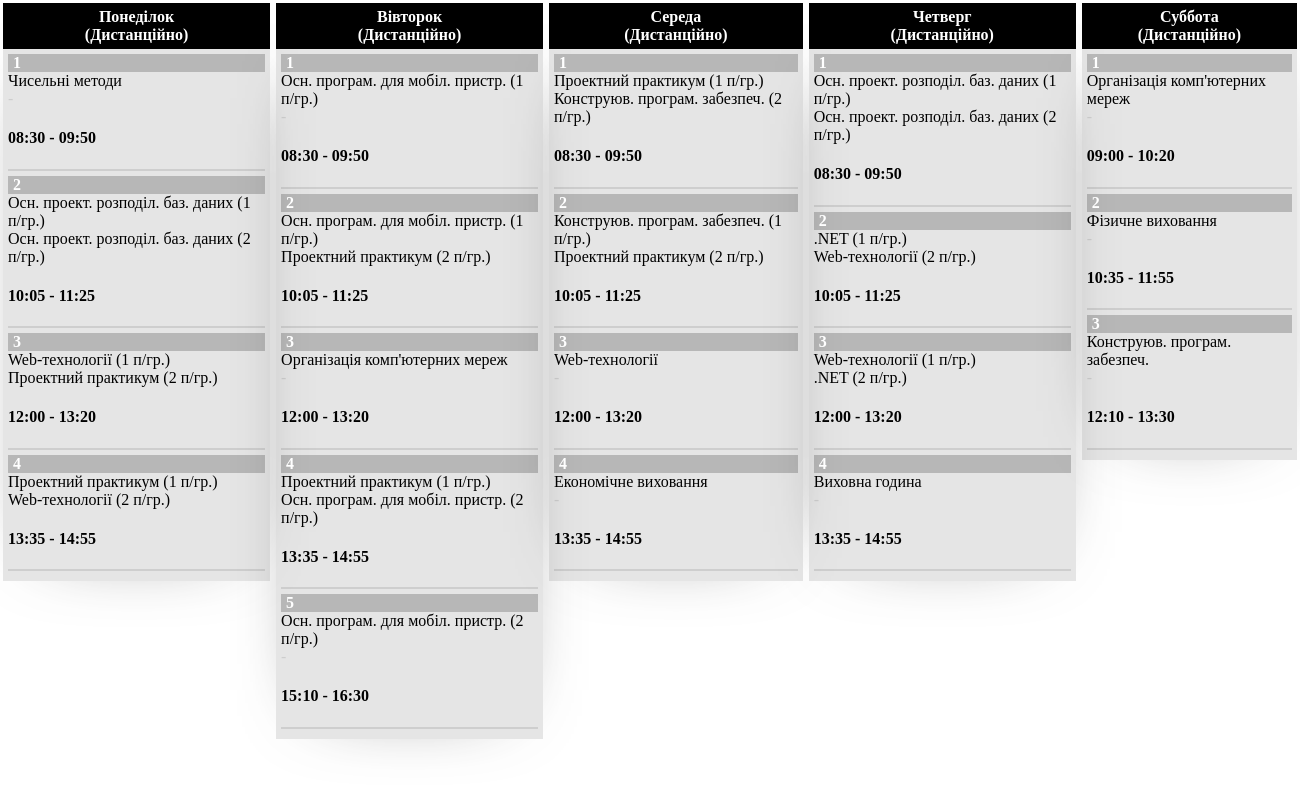
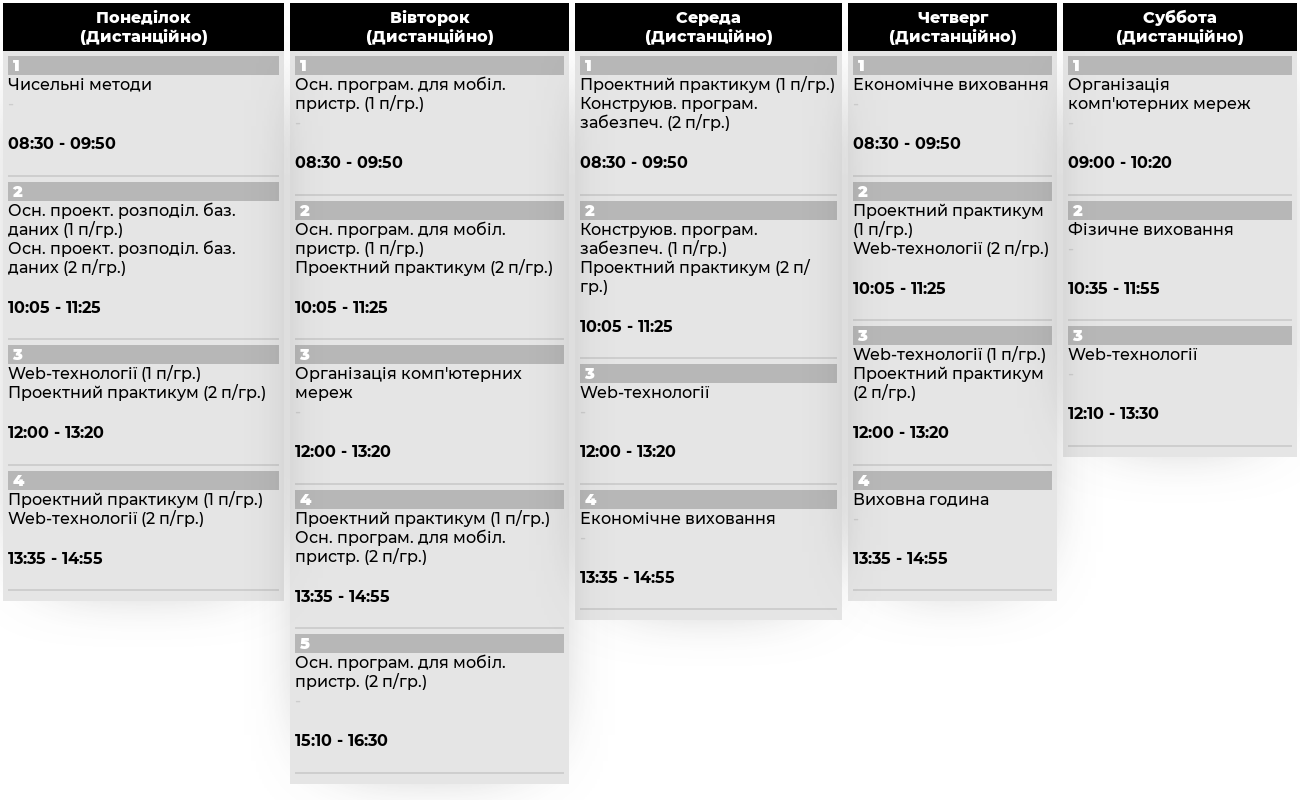
change schedule style /week

diff --git a/src/HtmlParser.js b/src/HtmlParser.js
@@ -12,7 +12,7 @@ const lessonToHtml = (lesson, index) => {
         `
         <div style="background-color: rgba(0, 0, 0, 0.2); color: white; font-weight: 900; padding-left: 5px" >${index}</div>
         <div style="border-width: 2px; border-color: black;" >
-            ${namesString}
+            <div style="font-weight: 500">${namesString}</div>
             <h4>${hourStart}:${minuteStart} - ${hourEnd}:${minuteEnd}</h4>
             <div style="height: 2px; background-color: rgba(0, 0, 0, 0.1); margin-bottom: 5px" ></div>
         </div>
@@ -61,7 +61,10 @@ const weekToHtml = (week, dayNames, dayTypes) => {
 
     return (
         `
-         <body style="width: 1300px; height: 800px; justify-content: center; display: flex; font-familt: sans-serif">
+         <style type="text/css">
+          @import url('https://fonts.googleapis.com/css2?family=Montserrat:ital,wght@0,100;0,200;0,300;0,400;0,500;0,600;0,700;0,800;0,900;1,100;1,200;1,300;1,400;1,500;1,600;1,700;1,800;1,900&display=swap');
+         </style>
+         <body style="width: 1300px; height: 800px; justify-content: center; display: flex; font-family: 'Montserrat', sans-serif;">
             <div style="display: flex" >
                 ${html}
             </div>
